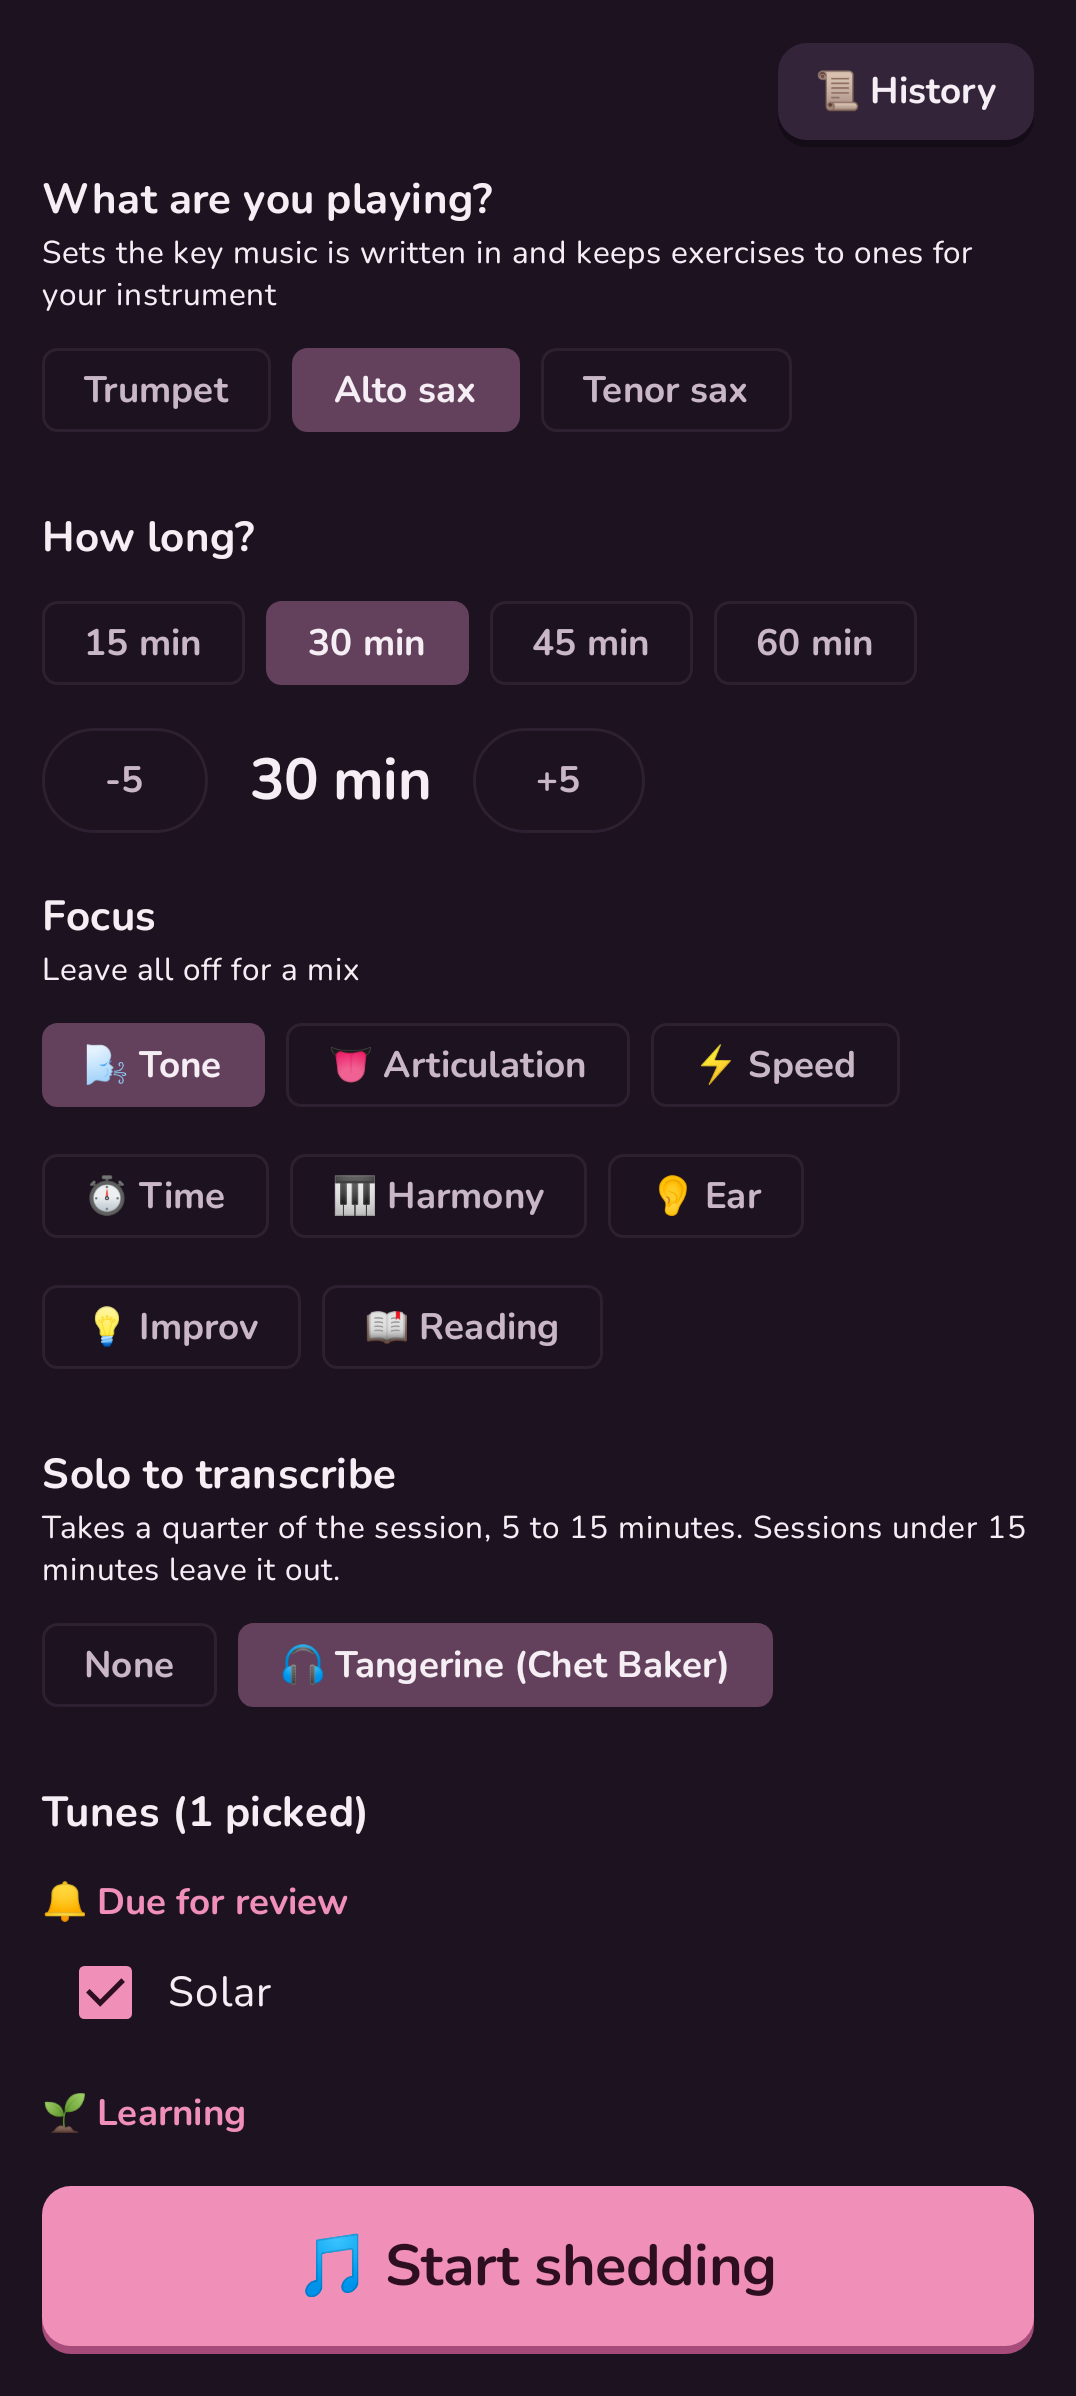
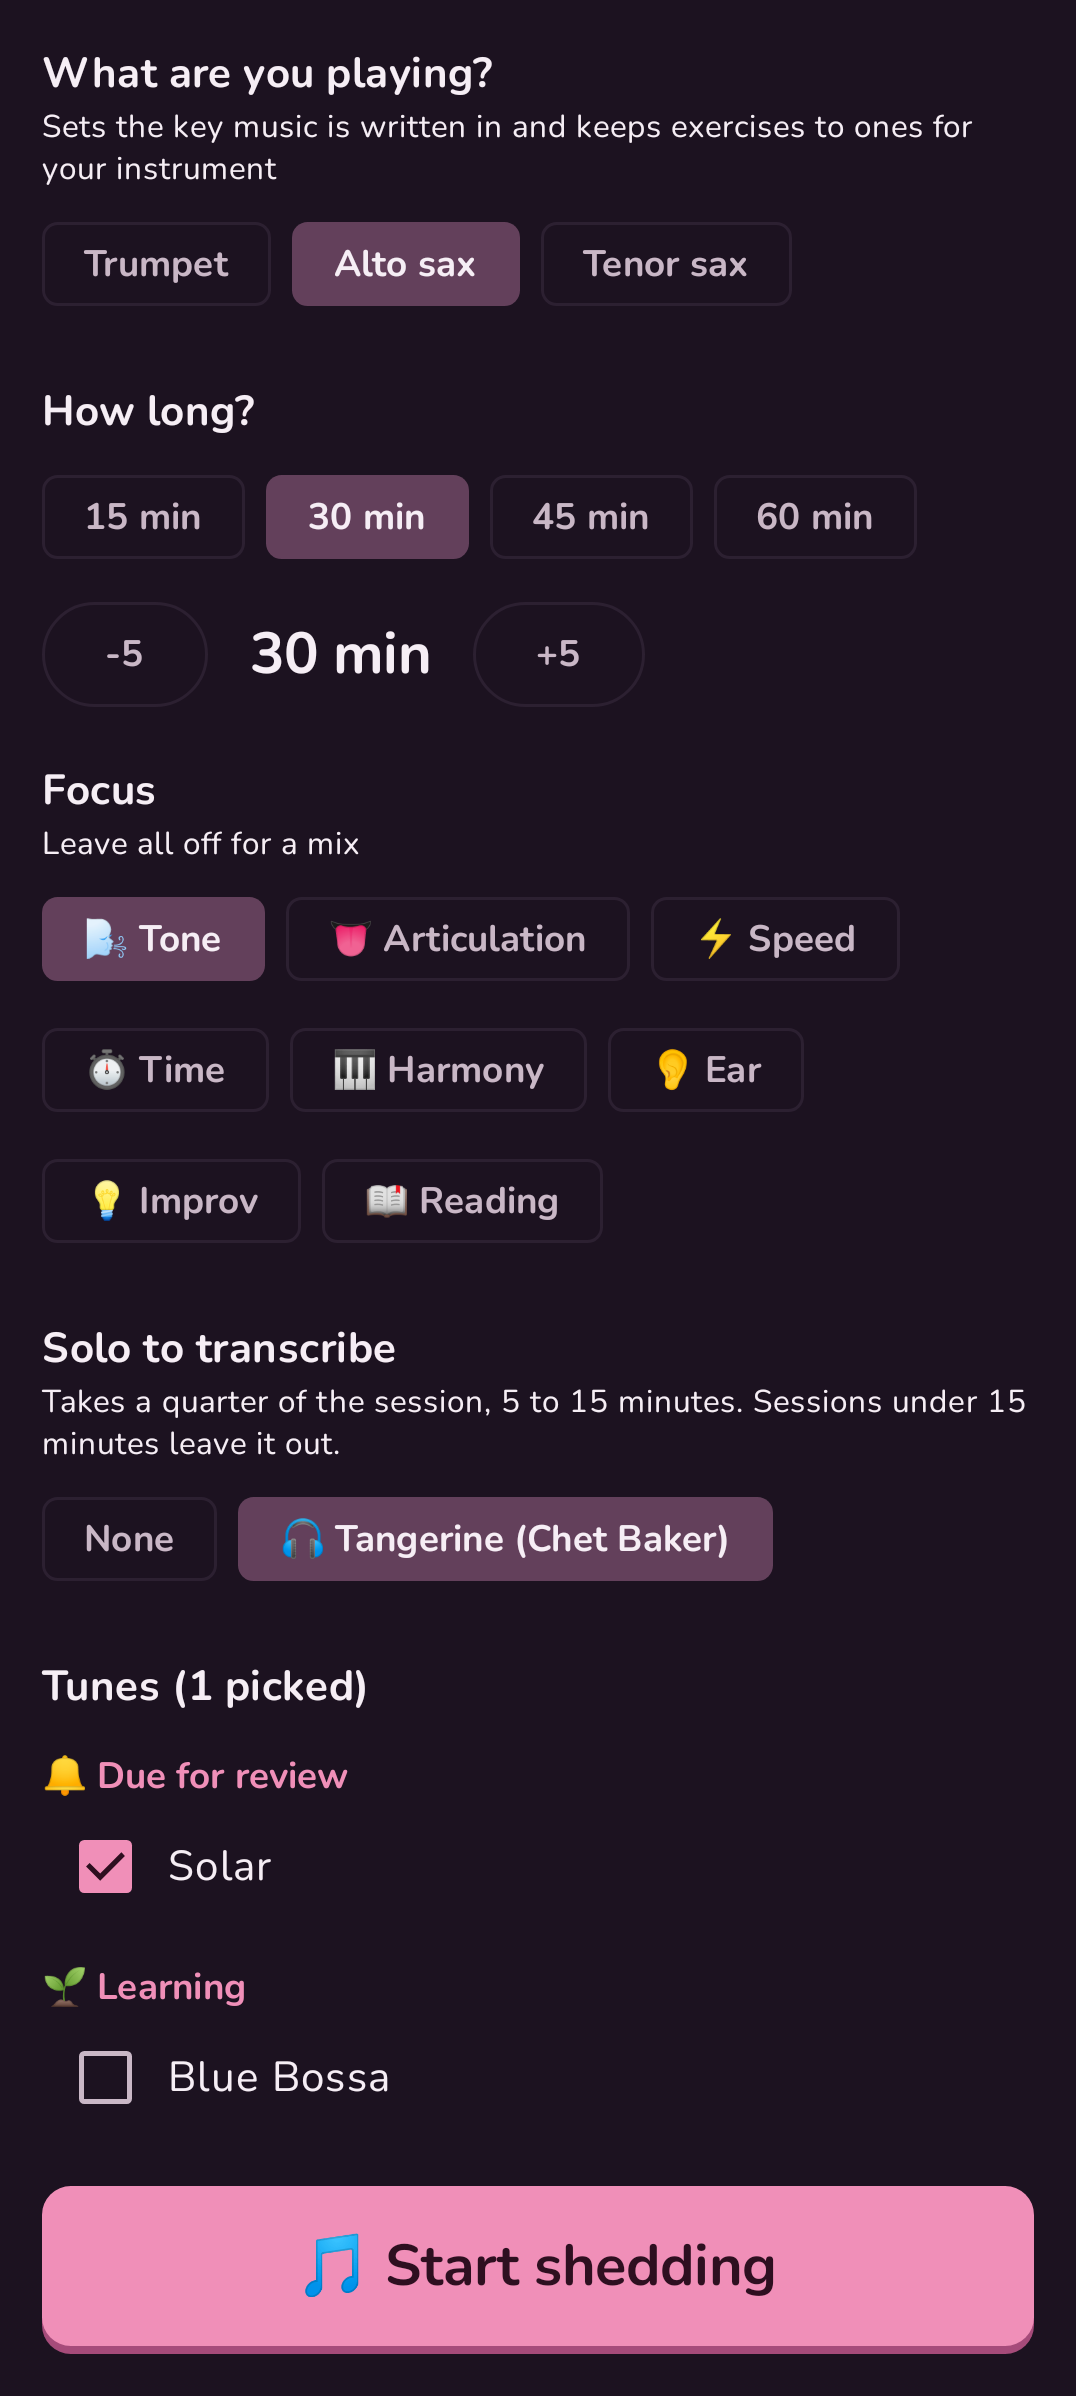
feat(app): make history a top-level tab

diff --git a/app/src/main/java/com/larakelley/woodshed/MainActivity.kt b/app/src/main/java/com/larakelley/woodshed/MainActivity.kt
@@ -13,7 +13,6 @@ import androidx.compose.runtime.LaunchedEffect
 import androidx.compose.runtime.getValue
 import androidx.compose.runtime.mutableStateOf
 import androidx.compose.runtime.remember
-import androidx.compose.runtime.saveable.rememberSaveable
 import androidx.compose.runtime.setValue
 import androidx.lifecycle.compose.collectAsStateWithLifecycle
 import androidx.lifecycle.lifecycleScope
@@ -108,7 +107,6 @@ class MainActivity : ComponentActivity() {
             val categories = exercises.map { it.category }.distinct().sortedBy { Phase.categoryRank(it) }
             dice.setOptions(browseState.styles, exercises.filter { it.appliesToTune }.map { it.name }, categories)
           }
-          var showHistory by rememberSaveable { mutableStateOf(false) }
           val history: HistoryViewModel = viewModel { HistoryViewModel(app.history) }
           val historyUi by history.ui.collectAsStateWithLifecycle()
           val setupActions = SetupActions(
@@ -125,7 +123,6 @@ class MainActivity : ComponentActivity() {
             replace = practice::replace,
             remove = practice::removeBlock,
             start = practice::start,
-            openHistory = { showHistory = true },
           )
 
           var whatsNew by remember { mutableStateOf(emptyList<ChangelogRelease>()) }
@@ -172,9 +169,6 @@ class MainActivity : ComponentActivity() {
                     onToggleMetronome = metronome::toggle,
                     onSetBpm = metronome::setBpm,
                   )
-                } else if (showHistory) {
-                  LaunchedEffect(Unit) { history.refresh() }
-                  HistoryScreen(historyUi, HistoryActions(history::showMonth, history::select, history::sessionsOn), onBack = { showHistory = false })
                 } else {
                   LaunchedEffect(Unit) { practice.refresh() }
                   PracticeHome(practiceUi, setupActions)
@@ -197,6 +191,10 @@ class MainActivity : ComponentActivity() {
                   tuning.a4,
                   DroneActions(drone::toggle, drone::setPitchClass, drone::setOctave, drone::setFifth, drone::setVolume),
                 )
+              },
+              historyTab = {
+                LaunchedEffect(Unit) { history.refresh() }
+                HistoryScreen(historyUi, HistoryActions(history::showMonth, history::select, history::sessionsOn))
               },
               helpTab = { HelpScreen() },
               tunerTab = {

diff --git a/app/src/main/java/com/larakelley/woodshed/ui/history/History.kt b/app/src/main/java/com/larakelley/woodshed/ui/history/History.kt
@@ -1,6 +1,5 @@
 package com.larakelley.woodshed.ui.history
 
-import androidx.activity.compose.BackHandler
 import androidx.compose.foundation.background
 import androidx.compose.foundation.border
 import androidx.compose.foundation.clickable
@@ -45,7 +44,6 @@ import com.larakelley.woodshed.data.PracticeDay
 import com.larakelley.woodshed.data.PracticeStats
 import com.larakelley.woodshed.data.db.BlockOutcome
 import com.larakelley.woodshed.domain.Key
-import com.larakelley.woodshed.theme.BackButton
 import com.larakelley.woodshed.theme.EmptyState
 import com.larakelley.woodshed.theme.LocalCallie
 import com.larakelley.woodshed.theme.PillChoice
@@ -115,24 +113,13 @@ enum class HistoryView(val label: String) {
 }
 
 @Composable
-fun HistoryScreen(
-  ui: HistoryUi,
-  actions: HistoryActions,
-  onBack: () -> Unit,
-  zone: ZoneId = ZoneId.systemDefault(),
-  initialView: HistoryView = HistoryView.LIST,
-) {
-  BackHandler(onBack = onBack)
+fun HistoryScreen(ui: HistoryUi, actions: HistoryActions, zone: ZoneId = ZoneId.systemDefault(), initialView: HistoryView = HistoryView.LIST) {
   var view by rememberSaveable { mutableStateOf(initialView) }
   Column(Modifier.fillMaxSize()) {
-    Column(Modifier.padding(start = 16.dp, end = 16.dp, top = 8.dp)) {
-      BackButton("Back", onBack, Modifier.testTag("close-history"))
-      Text("History", style = MaterialTheme.typography.headlineMedium, modifier = Modifier.padding(top = 8.dp))
-    }
     PillChoice(HistoryView.entries.map { it.label to it }, view, { view = it }, Modifier.padding(horizontal = 12.dp, vertical = 12.dp), tagPrefix = "history")
     when {
       ui.loaded && ui.sessions.isEmpty() && ui.days.isEmpty() ->
-        EmptyState("📜", "Nothing yet", "Sessions you run from the Practice tab, and tunes you grade, show up here.", scrolls = true)
+        EmptyState("📜", "Nothing yet", "Sessions you run from the 🎷 Practice tab, and tunes you grade, show up here.", scrolls = true)
 
       view == HistoryView.LIST -> SessionList(ui.sessions, zone)
 

diff --git a/app/src/test/java/com/larakelley/woodshed/ui/history/HistoryScreenTest.kt b/app/src/test/java/com/larakelley/woodshed/ui/history/HistoryScreenTest.kt
@@ -45,7 +45,7 @@ class HistoryScreenTest {
 
   @Test
   fun aSessionSummarisesAndOpensToItsBlocks() {
-    compose.setContent { HistoryScreen(HistoryUi(sessions = listOf(session), loaded = true), HistoryActions(), onBack = {}, zone = ZoneOffset.UTC) }
+    compose.setContent { HistoryScreen(HistoryUi(sessions = listOf(session), loaded = true), HistoryActions(), zone = ZoneOffset.UTC) }
     compose.onNodeWithText("Thu, Oct 15, 7:40 PM").assertExists()
     compose.onNodeWithText("28 min of 30 min, 2 of 3 blocks, ended early").assertExists()
     compose.onNodeWithText("Graded good").assertDoesNotExist()
@@ -72,7 +72,6 @@ class HistoryScreenTest {
         HistoryActions(showMonth = {
           months += it
         }, select = { picked += it }, sessionsOn = { listOf(session) }),
-        onBack = {},
         zone = ZoneOffset.UTC,
       )
     }
@@ -97,7 +96,7 @@ class HistoryScreenTest {
       learning = 3, repertoire = 2, reachedRepertoireThisMonth = 1,
     )
     compose.setContent {
-      HistoryScreen(HistoryUi(sessions = listOf(session), stats = stats, loaded = true), HistoryActions(), onBack = {}, initialView = HistoryView.STATS)
+      HistoryScreen(HistoryUi(sessions = listOf(session), stats = stats, loaded = true), HistoryActions(), initialView = HistoryView.STATS)
     }
     compose.onNodeWithText("2 h 5 min").assertExists()
     compose.onNodeWithText("1 day").assertExists()
@@ -111,7 +110,7 @@ class HistoryScreenTest {
 
   @Test
   fun nothingYetSaysWhereHistoryComesFrom() {
-    compose.setContent { HistoryScreen(HistoryUi(loaded = true), HistoryActions(), onBack = {}) }
+    compose.setContent { HistoryScreen(HistoryUi(loaded = true), HistoryActions()) }
     compose.onNodeWithTag("empty-state").assertExists()
   }
 

diff --git a/app/src/main/java/com/larakelley/woodshed/ui/practice/PracticeScreen.kt b/app/src/main/java/com/larakelley/woodshed/ui/practice/PracticeScreen.kt
@@ -85,7 +85,6 @@ data class SetupActions(
   val replace: (Int, Long) -> Unit = { _, _ -> },
   val remove: (Int) -> Unit = {},
   val start: () -> Unit = {},
-  val openHistory: () -> Unit = {},
 )
 
 private val LENGTHS = listOf(15, 30, 45, 60)
@@ -107,18 +106,7 @@ private fun SessionSetup(ui: PracticeUi, actions: SetupActions) {
   Column(Modifier.fillMaxSize()) {
     LazyColumn(Modifier.weight(1f).fillMaxWidth(), contentPadding = PaddingValues(16.dp)) {
       item {
-        Row(Modifier.fillMaxWidth().padding(bottom = 8.dp), verticalAlignment = Alignment.CenterVertically) {
-          Text(
-            ui.summary?.takeIf { it.reviewedToday > 0 }?.let { "Reviewed today: ${it.reviewedToday}" } ?: "",
-            modifier = Modifier.weight(1f),
-          )
-          StickerButton(
-            onClick = actions.openHistory,
-            sticker = neutralSticker,
-            modifier = Modifier.height(40.dp).testTag("open-history"),
-            contentPadding = PaddingValues(horizontal = 14.dp),
-          ) { Text("📜 History", style = MaterialTheme.typography.labelLarge) }
-        }
+        ui.summary?.takeIf { it.reviewedToday > 0 }?.let { Text("Reviewed today: ${it.reviewedToday}", modifier = Modifier.padding(bottom = 8.dp)) }
         Text("What are you playing?", style = MaterialTheme.typography.titleMedium)
         Text(
           if (setup.instrumentsChosen) {

diff --git a/app/src/main/java/com/larakelley/woodshed/ui/browse/BrowseScreen.kt b/app/src/main/java/com/larakelley/woodshed/ui/browse/BrowseScreen.kt
@@ -98,6 +98,7 @@ private const val NEW_TUNE = "+new"
 /** Shown before each tab name in the main navigation. */
 private val TAB_EMOJI = mapOf(
   "Practice" to "🎷",
+  "History" to "📜",
   "Random" to "🎲",
   "Transcribe" to "🎧",
   "Metronome" to "⏱",
@@ -122,6 +123,7 @@ fun BrowseScreen(
   onExerciseFilter: ((ExerciseFilter) -> ExerciseFilter) -> Unit = {},
   now: () -> Long = System::currentTimeMillis,
   practiceTab: (@Composable () -> Unit)? = null,
+  historyTab: (@Composable () -> Unit)? = null,
   diceTab: (@Composable () -> Unit)? = null,
   transcribeTab: (@Composable () -> Unit)? = null,
   metronomeTab: (@Composable () -> Unit)? = null,
@@ -147,6 +149,7 @@ fun BrowseScreen(
   var editingExercise by rememberSaveable { mutableStateOf<Long?>(null) }
   val tabs = buildList {
     if (practiceTab != null) add("Practice")
+    if (historyTab != null) add("History")
     if (diceTab != null) add("Random")
     if (transcribeTab != null) add("Transcribe")
     if (metronomeTab != null) add("Metronome")
@@ -293,6 +296,8 @@ fun BrowseScreen(
       }
       when (tabs[tab]) {
         "Practice" -> practiceTab?.invoke()
+
+        "History" -> historyTab?.invoke()
 
         "Random" -> diceTab?.invoke()
 

diff --git a/app/src/test/java/com/larakelley/woodshed/screenshots/ScreenshotTest.kt b/app/src/test/java/com/larakelley/woodshed/screenshots/ScreenshotTest.kt
@@ -238,7 +238,6 @@ class ScreenshotTest(private val mode: String) {
         loaded = true,
       ),
       HistoryActions(),
-      onBack = {},
       zone = ZoneOffset.UTC,
     )
   }
@@ -252,7 +251,6 @@ class ScreenshotTest(private val mode: String) {
     HistoryScreen(
       HistoryUi(sessions = listOf(historySession), days = days, month = YearMonth.of(2026, 10), selected = LocalDate.of(2026, 10, 15), loaded = true),
       HistoryActions(sessionsOn = { listOf(historySession) }),
-      onBack = {},
       zone = ZoneOffset.UTC,
       initialView = HistoryView.CALENDAR,
     )
@@ -266,7 +264,7 @@ class ScreenshotTest(private val mode: String) {
       repsByKey = listOf(12, 3, 7, 9, 2, 11, 1, 8, 4, 5, 10, 2),
       learning = 6, repertoire = 4, reachedRepertoireThisMonth = 2,
     )
-    HistoryScreen(HistoryUi(sessions = listOf(historySession), stats = stats, loaded = true), HistoryActions(), onBack = {}, initialView = HistoryView.STATS)
+    HistoryScreen(HistoryUi(sessions = listOf(historySession), stats = stats, loaded = true), HistoryActions(), initialView = HistoryView.STATS)
   }
 
   @Test

diff --git a/app/src/test/java/com/larakelley/woodshed/ui/browse/BrowseScreenTest.kt b/app/src/test/java/com/larakelley/woodshed/ui/browse/BrowseScreenTest.kt
@@ -116,6 +116,7 @@ class BrowseScreenTest {
         BrowseState(Transposition.C, rows, rows.size, exerciseRows(exercises), exercises.size, allTunes = rows),
         onSelectTransposition = {},
         practiceTab = { Text("practice") },
+        historyTab = { Text("history content") },
         helpTab = { Text("help content") },
       )
     }
@@ -124,6 +125,7 @@ class BrowseScreenTest {
     val isTab = SemanticsMatcher("is a tab") { it.config.getOrNull(SemanticsProperties.TestTag)?.startsWith("tab-") == true }
     val tabs = compose.onAllNodes(isTab).fetchSemanticsNodes().map { it.config[SemanticsProperties.TestTag] }
     assertEquals("tab-Help", tabs.last())
+    assertEquals(listOf("tab-Practice", "tab-History"), tabs.take(2))
   }
 
   @Test

diff --git a/app/src/main/java/com/larakelley/woodshed/ui/help/Help.kt b/app/src/main/java/com/larakelley/woodshed/ui/help/Help.kt
@@ -85,7 +85,7 @@ val HELP_TOPICS = listOf(
   HelpTopic(
     "History and stats",
     listOf(
-      "**📜 History** at the top of practice setup lists your sessions and what you did in each. The calendar marks the days you practised, and **Stats** shows your time, streaks, most practised tunes and keys.",
+      "The **📜 History** tab lists your sessions and what you did in each. The calendar marks the days you practised, and **Stats** shows your time, streaks, most practised tunes and keys.",
     ),
   ),
   HelpTopic(
